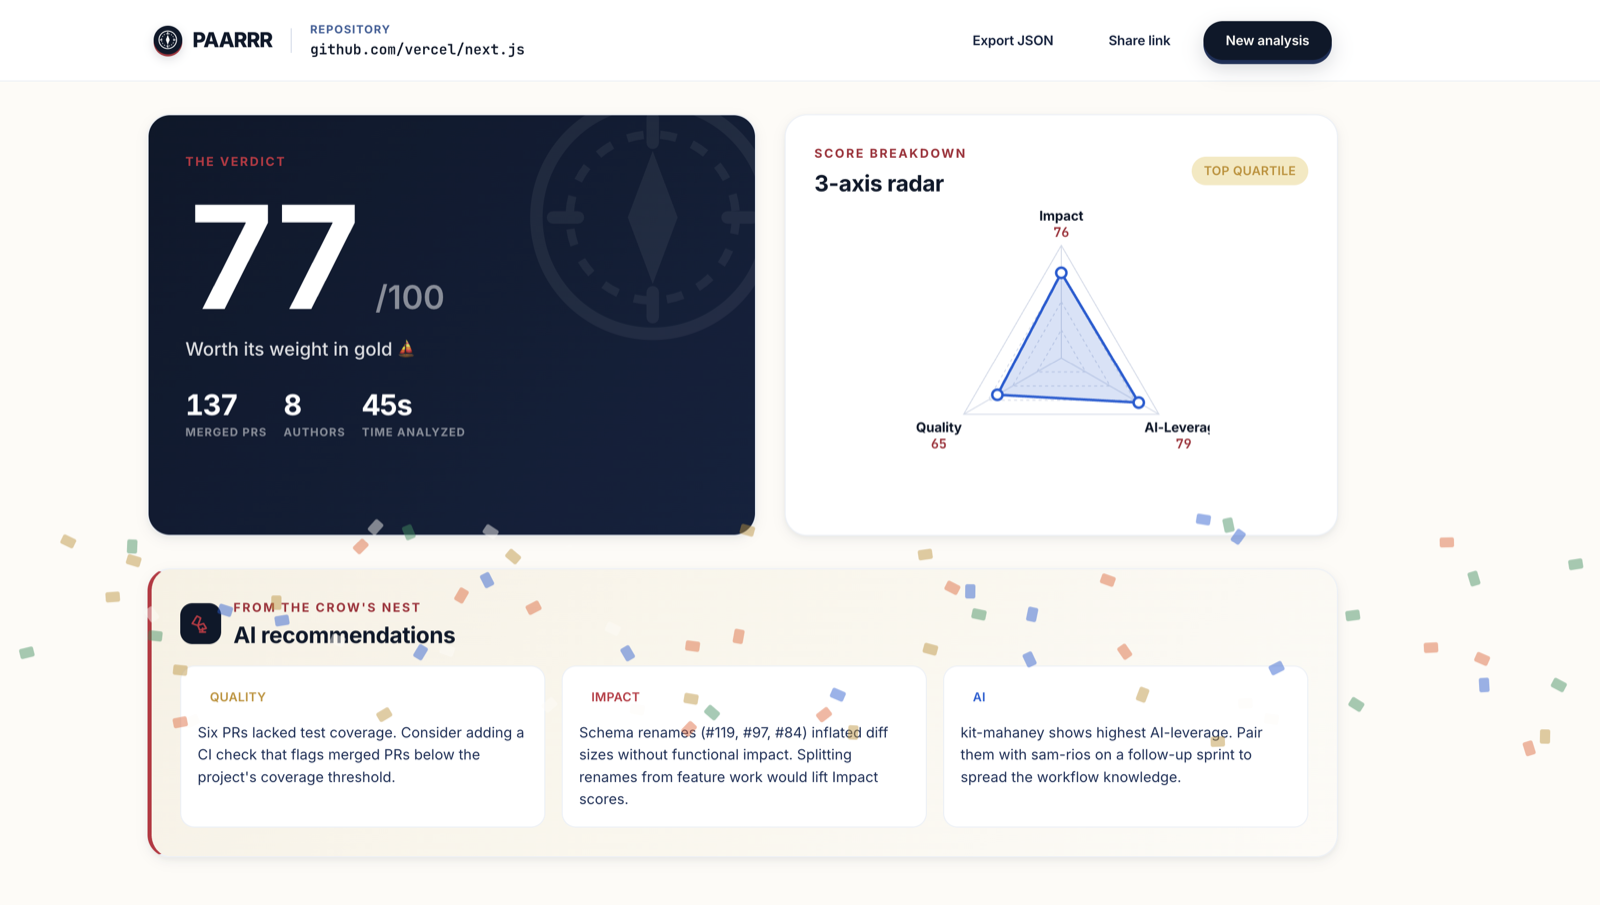
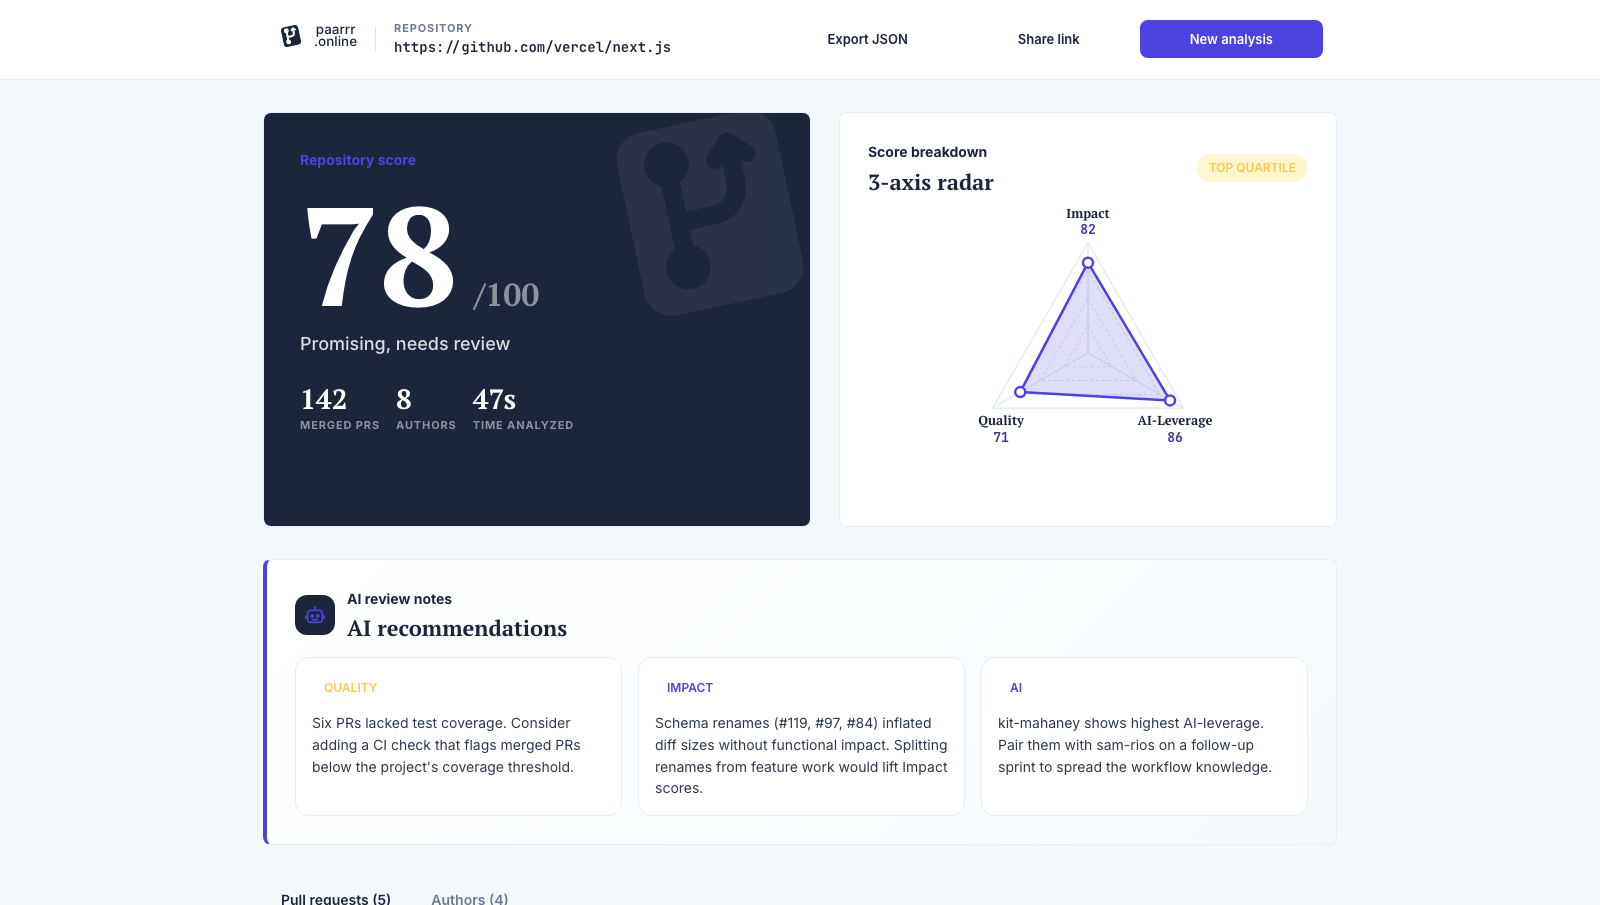
[ai] Refresh README screenshots
Replace README screenshots with current landing, loading, and dashboard captures, update screenshot descriptions, and prevent radar labels from clipping.

diff --git a/src/components/charts/radar-chart.tsx b/src/components/charts/radar-chart.tsx
@@ -114,7 +114,8 @@ export function RadarChart({
       })}
       {axes.map((a) => {
         const lr = r + 28;
-        const x = cx + Math.cos(a.angle) * lr;
+        const rawX = cx + Math.cos(a.angle) * lr;
+        const x = Math.min(size - 58, Math.max(58, rawX));
         const y = cy + Math.sin(a.angle) * lr;
         return (
           <g key={`label-${a.label}`}>

diff --git a/README.md b/README.md
@@ -12,8 +12,8 @@ Point PAARRR at a public GitHub repo, get an AI-generated quality score across t
 
 <p align="center">
   <img src="public/screenshots/how-it-works.png" alt="How it works — three steps from repo to report" width="32%" />
-  <img src="public/screenshots/loading.png" alt="Loading state — charting results" width="32%" />
-  <img src="public/screenshots/dashboard.png" alt="Dashboard — verdict, radar, and AI recommendations" width="32%" />
+  <img src="public/screenshots/loading.png" alt="Loading state — reading GitHub and scoring PRs" width="32%" />
+  <img src="public/screenshots/dashboard.png" alt="Dashboard — repository score, radar, and AI recommendations" width="32%" />
 </p>
 
 ---
@@ -51,8 +51,8 @@ The dashboard cache is in-memory and lifetime-of-process, so a redeploy effectiv
 
 - **Hero with animated, typed placeholder** in the URL field; **client-side URL validation** (`parseRepoUrl`) before any network call, with inline error messaging and `aria-invalid`/`aria-describedby` wiring.
 - Mobile-friendly URL input: `type=url`, `inputMode=url`, `autoCapitalize=off`, `autoCorrect=off`, `spellCheck=false`.
-- Sections per the brief: Hero, Social proof marquee, How it works (3 steps with treasure-path), What we score (3 dimensions with weights), Sample report preview, Final CTA, Footer.
-- Hand-rolled **paper-boat-on-code-wave SVG** illustration with subtle ship-rock and float-y animations; **edge-to-edge on mobile**.
+- Sections per the brief: Hero, social proof logo row, How it works, What we score, Sample report preview, Final CTA, Footer.
+- Hand-rolled **PR report illustration** with score cards, analysis badge, dashboard strip, and subtle float animations; **edge-to-edge on mobile**.
 - **Mobile-first responsive** at 1024 / 768 breakpoints, plus an explicit **`prefers-reduced-motion`** opt-out that strips every keyframe animation, scroll reveal, and confetti flight for users who request it.
 
 ### Backend (`/api/analyze`)
@@ -96,7 +96,7 @@ The backend respects `GITHUB_TOKEN` from env (lifts to 5000/h). If a visitor hit
 
 ### Loading state
 
-- Multi-stage progress (Hailing GitHub → Hauling in PRs → Plotting course → Charting results) with messages that cycle on a creep timer during the long-tail wait. The bar is decoupled from the synchronous fetch by design — when scoring runs ~30 s on a large repo the user always sees motion. Real-progress streaming via SSE is a clean future swap.
+- Multi-stage progress (Reading GitHub → Collecting PRs → Scoring with AI → Building report) with messages that cycle on a creep timer during the long-tail wait. The bar is decoupled from the synchronous fetch by design — when scoring runs ~30 s on a large repo the user always sees motion. Real-progress streaming via SSE is a clean future swap.
 
 ### Code quality
 
@@ -135,7 +135,7 @@ The scorer is calibrated to be conservative on purpose: rather than guess from "
 - **Driver:** Claude Code (Opus) with an iterative loop (plan → tool calls → review diff → adjust). Multi-agent dispatch for parallelizable chunks (LP + dashboard implementation in parallel; 4-way code review in parallel).
 - **Review pass:** Codex with GPT-5.5 was used for a final multi-agent code review, dependency cleanup, and targeted requirement-gap fixes before submission.
 - **What AI did:** scaffold, the scoring prompt design, type schemas, the LP component code, dashboard charts, the LLM scoring pipeline, error mapping, README copy.
-- **What I did myself:** scoring weight calibration, the choice to swap ESLint for oxc, edge-case prioritization (rate limit handling with runtime token override, no-PR repo, all-PR scoring failure), visual direction (crimson accent, ship illustration), and verifying agent claims before propagating them (caught two hallucinated "P0 bugs" during the review pass).
+- **What I did myself:** scoring weight calibration, the choice to swap ESLint for oxc, edge-case prioritization (rate limit handling with runtime token override, no-PR repo, all-PR scoring failure), visual direction (passport-photo.online-inspired system adapted to PR analysis), and verifying agent claims before propagating them (caught two hallucinated "P0 bugs" during the review pass).
 - **Traces:** `prompts.md` captures the four highest-leverage prompts. Co-authored-by trailers and `[ai]`/`[cc]` tags appear on every AI-assisted commit.
 
 ## Design decisions
